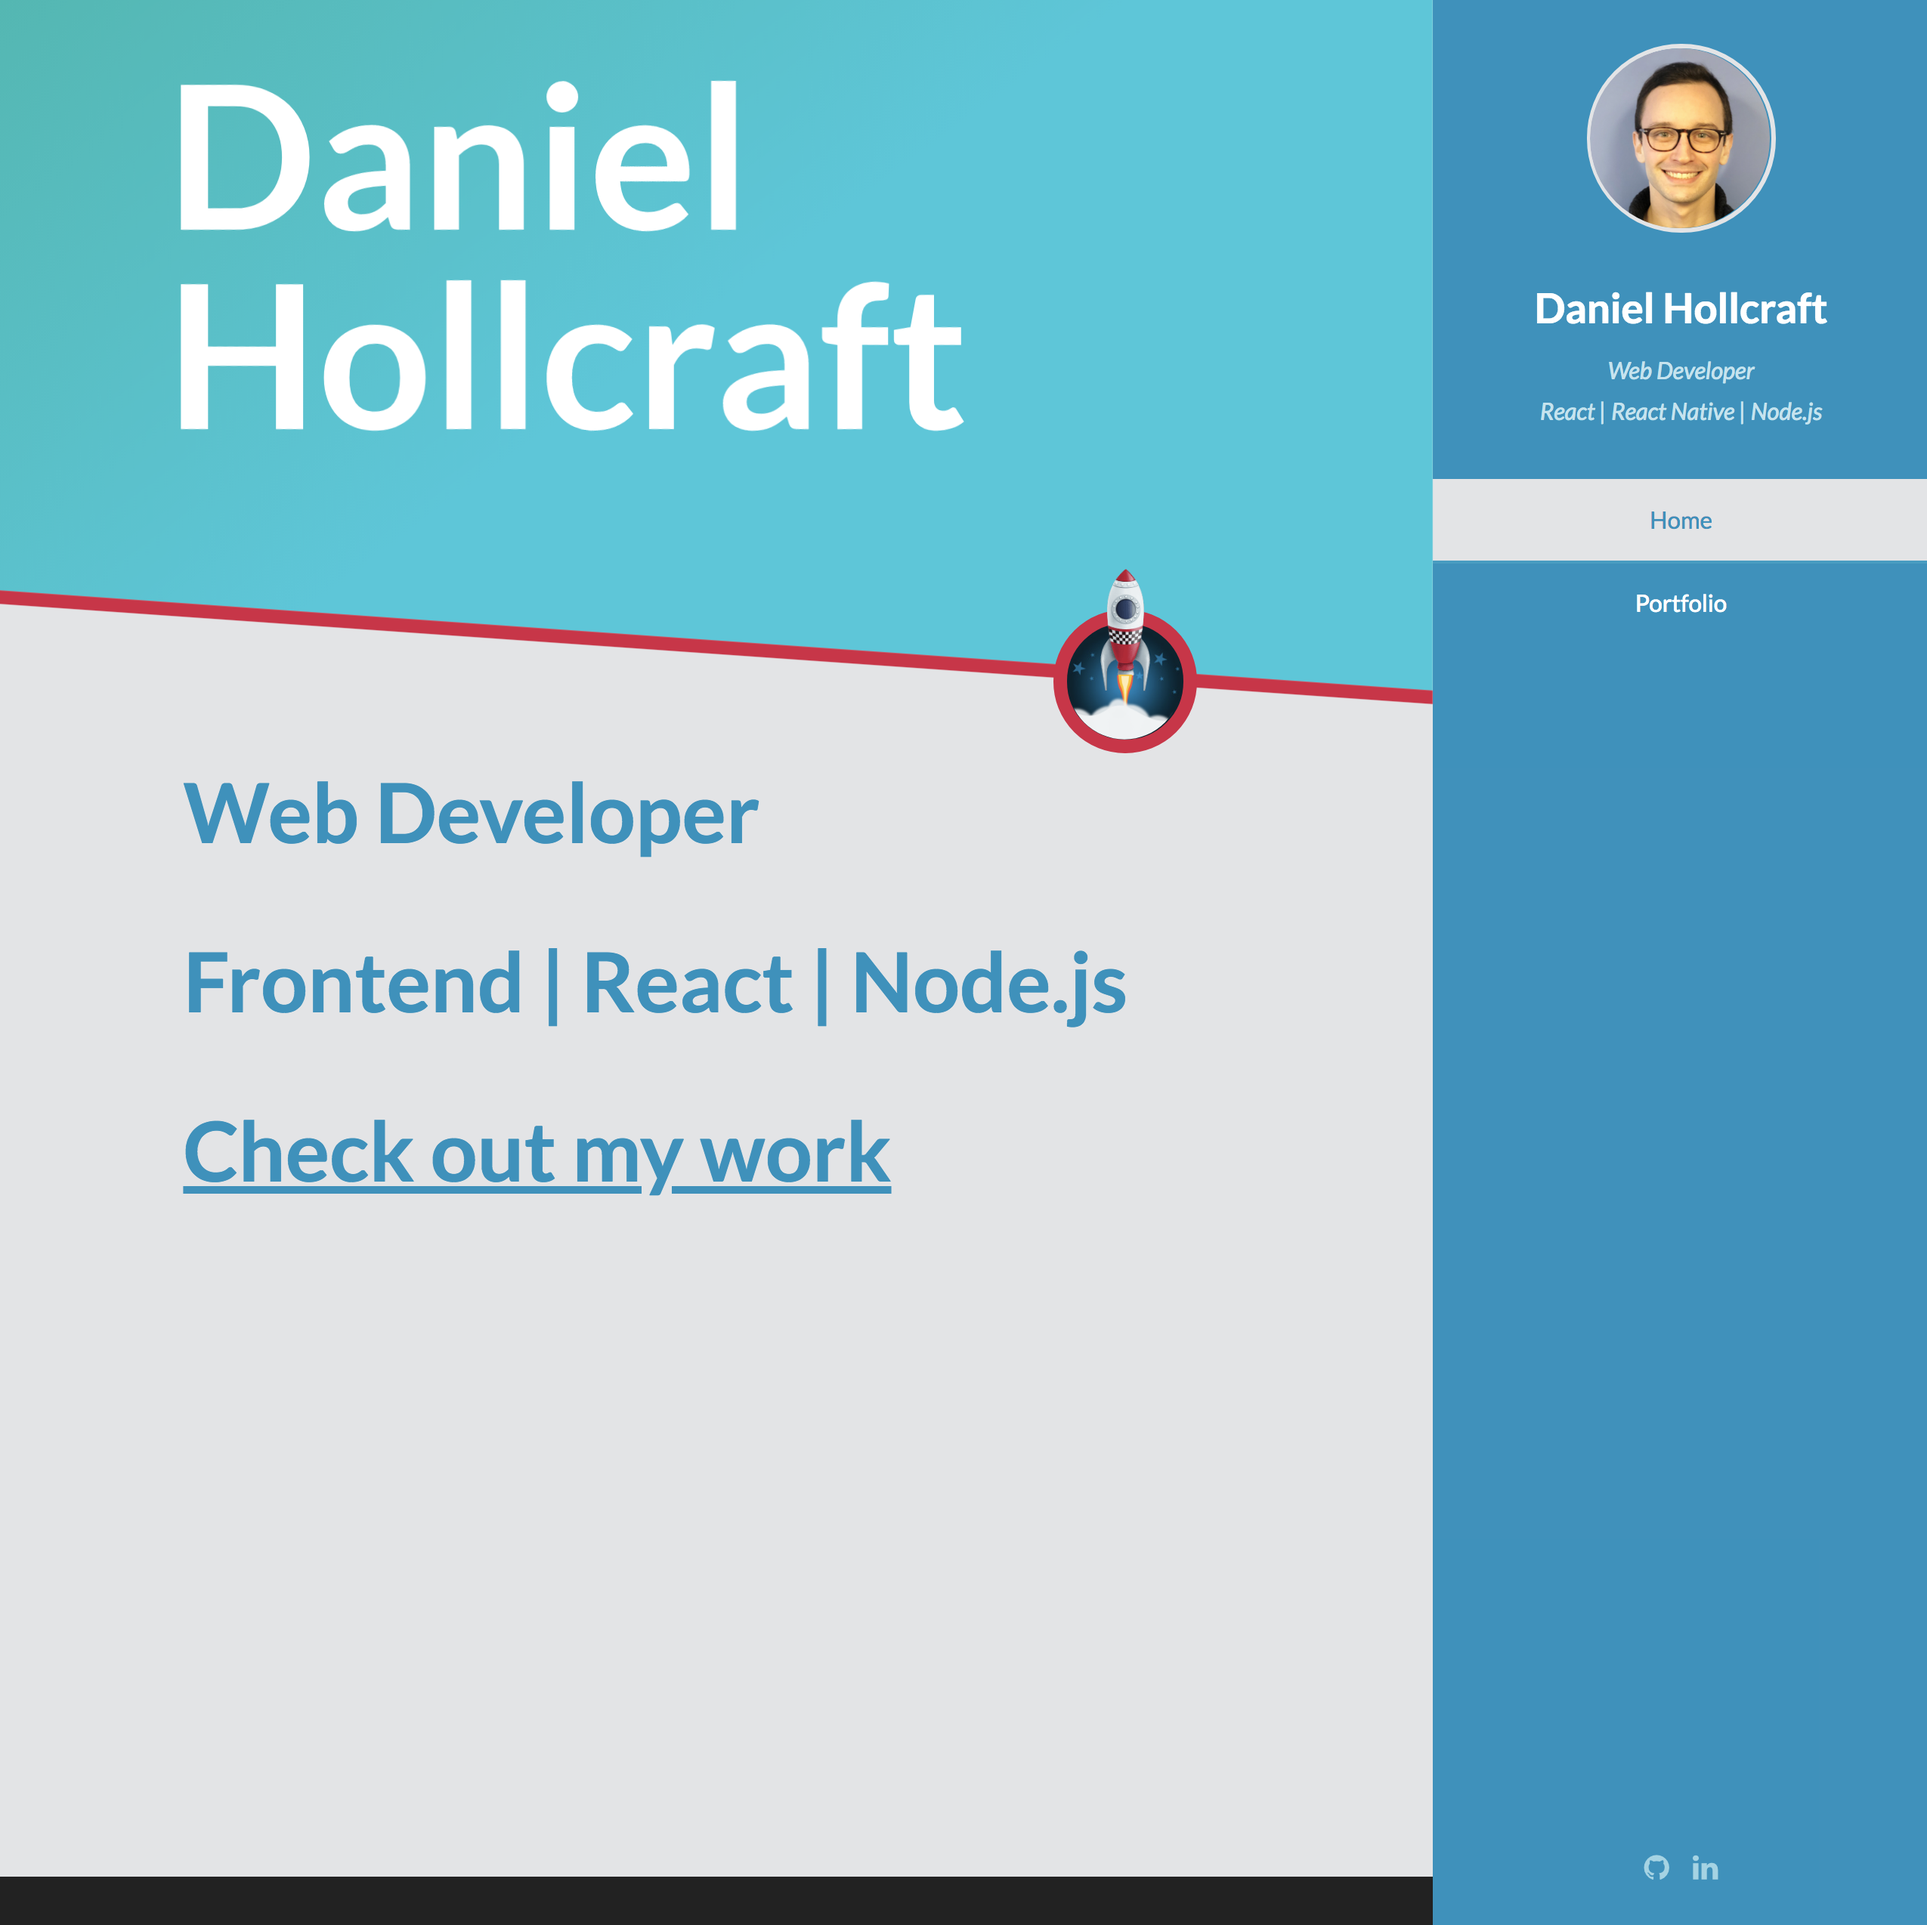
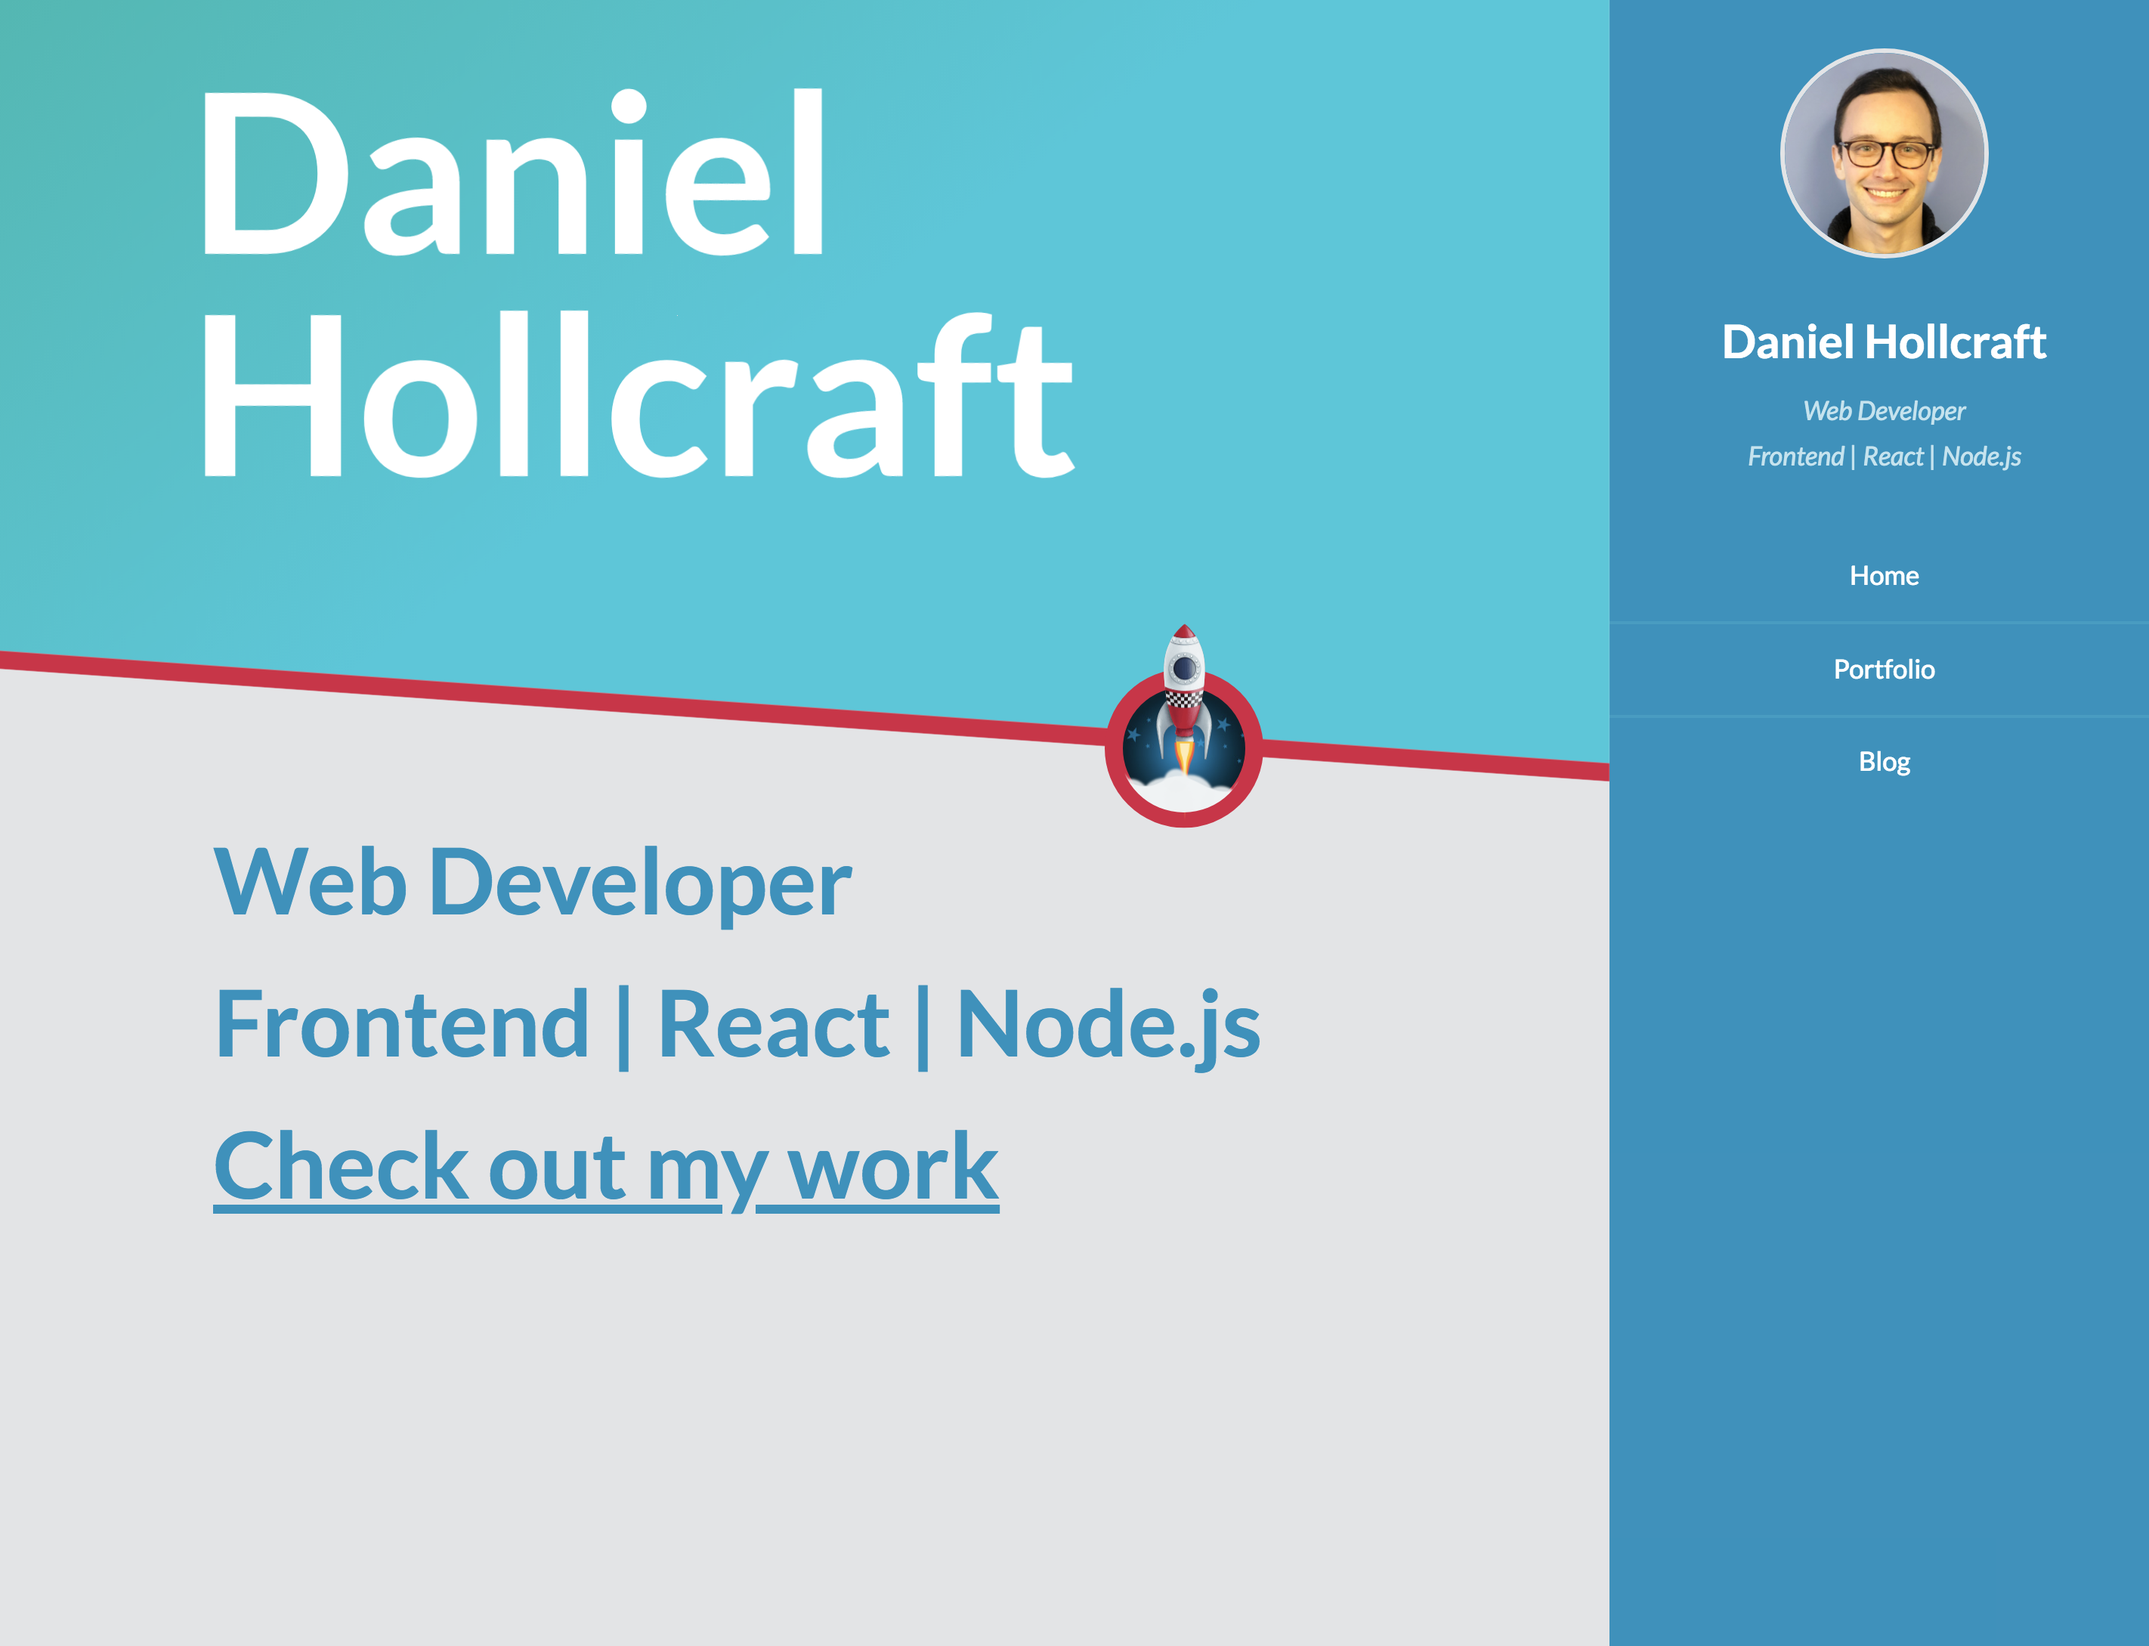
feat: Toggle sidebar in narrow screens to make it appear and disappear.

diff --git a/ui/src/layouts/index.js b/ui/src/layouts/index.js
@@ -1,83 +1,93 @@
-import React from 'react'
+import React, { Component } from 'react'
 import Link from 'gatsby-link'
 import Helmet from 'react-helmet'
-import { ListLink } from '../components'
+import 'prismjs/themes/prism-twilight.css'
+import { ListLink, NavigationBar } from '../components'
 import avatar from '../assets/images/profile-photo.png'
 import './sass/main.scss'
-import 'prismjs/themes/prism-twilight.css'
 
-export default ({ children }) => (
-  <div id="content">
-    <div id="titleBar"><a href="#header" className="toggle"></a><span className="title"><a href="#">Daniel Hollcraft</a></span></div>
-    <section id="header">
-      <header>
-        <span className="image avatar"><img src={avatar} alt="" /></span>
-        <h1 id="logo"><a href="#">Daniel Hollcraft</a></h1>
-        <p>Web Developer<br />
-          Frontend | React | Node.js
+export default class extends Component {
+  constructor() {
+    super()
+    this.state = {
+      // This will only work if the viewport is narrow enough.
+      sideBarOpen: false
+    }
+
+    this.toggleSideBar = this.toggleSideBar.bind(this)
+    this.closeSideBar = this.closeSideBar.bind(this)
+  }
+
+  toggleSideBar() {
+    this.setState({ sideBarOpen: !this.state.sideBarOpen })
+  }
+
+  // Manages side-effect of not being visible by CSS but open.
+  // Unfortunately neccessary.
+  closeSideBar() {
+    this.setState({ sideBarOpen: false })
+  }
+
+  render() {
+    const { data, children } = this.props
+    const { sideBarOpen } = this.state
+    return (
+      <div id="content" className={sideBarOpen && 'header-visible'}>
+        <Helmet
+          title={data.site.siteMetadata.title}
+          meta={[
+            { name: 'description', content: 'Sample' },
+            { name: 'keywords', content: 'sample, something' },
+          ]}
+        />
+        <NavigationBar toggleSideBar={this.toggleSideBar} />
+        <section id="header">
+          <header>
+            <span className="image avatar"><img src={avatar} alt="" /></span>
+            <h1 id="logo"><Link to="/">Daniel Hollcraft</Link></h1>
+            <p>Web Developer<br />
+              Frontend | React | Node.js
         </p>
-      </header>
-      <nav id="nav">
+          </header>
+          <nav id="nav">
 
-        <ul>
-          <ListLink to="/">Home</ListLink>
-          <ListLink to="/portfolio">Portfolio</ListLink>
-          <ListLink to="/blog">Blog</ListLink>
-          {/*<ListLink to="/contact">Contact</ListLink> */}
-        </ul>
-      </nav>
-      <footer>
-        <ul className="icons">
-          <li><a href="https://github.com/danielbh" className="icon fa-github"><span className="label">Github</span></a></li>
-          <li><a href="https://www.linkedin.com/in/daniel-hollcraft/" className="icon fa-linkedin"><span className="label">Linkedin</span></a></li>
-        </ul>
-      </footer>
-    </section>
-    <div id="wrapper">
-      <div id="main">
-        {children()}
-      </div>
-      <section id="footer">
-        <div className="container">
-          <ul className="copyright">
-            <li>&copy; Daniel Hollcraft. All rights reserved.</li><li>Theme: <a href="http://html5up.net">HTML5 UP</a></li>
-          </ul>
+            <ul onClick={this.closeSideBar}>
+              <ListLink to="/">Home</ListLink>
+              <ListLink to="/portfolio">Portfolio</ListLink>
+              <ListLink to="/blog">Blog</ListLink>
+              {/*<ListLink to="/contact">Contact</ListLink> */}
+            </ul>
+          </nav>
+          <footer>
+            <ul className="icons">
+              <li><a href="https://github.com/danielbh" className="icon fa-github"><span className="label">Github</span></a></li>
+              <li><a href="https://www.linkedin.com/in/daniel-hollcraft/" className="icon fa-linkedin"><span className="label">Linkedin</span></a></li>
+            </ul>
+          </footer>
+        </section>
+        <div id="wrapper">
+          <div id="main">
+            {children()}
+          </div>
+          <section id="footer">
+            <div className="container">
+              <ul className="copyright">
+                <li>&copy; Daniel Hollcraft. All rights reserved.</li><li>Theme: <a href="http://html5up.net">HTML5 UP</a></li>
+              </ul>
+            </div>
+          </section>
         </div>
-      </section>
-    </div>
-  </div>
-)
+      </div>
+    )
+  }
+}
 
-
-// export default ({ data,  children }) => (
-//   <div style={{ margin: '0 auto', maxWidth: 650, padding: '1.25rem 1rem' }}>
-//     <Helmet
-//       title={data.site.siteMetadata.title}
-//       meta={[
-//         { name: 'description', content: 'Sample' },
-//         { name: 'keywords', content: 'sample, something' },
-//       ]}
-//     />
-//     <header style={{ marginBottom: '1.5rem' }}>
-//       <Link to="/" style={{ textShadow: 'none', backgroundImage: 'none' }}>
-//         <h3 style={{ display: 'inline' }}>{data.site.siteMetadata.title}</h3>
-//       </Link>
-//       <ul style={{ listStyle: 'none', float: 'right' }}>
-//         <ListLink to="/">Home</ListLink>
-//         <ListLink to="/about/">About</ListLink>
-//         <ListLink to="/contact/">Contact</ListLink>
-//       </ul>
-//     </header>
-//     {children()}
-//   </div>
-// )
-
-// export const query = graphql`
-//   query AboutQuery {
-//     site {
-//       siteMetadata {
-//         title
-//       }
-//     }
-//   }
-// `
+export const query = graphql`
+  query HomeQuery {
+    site {
+      siteMetadata {
+        title
+      }
+    }
+  }
+`

diff --git a/ui/src/layouts/sass/main.scss b/ui/src/layouts/sass/main.scss
@@ -219,8 +219,15 @@
 		}
 	}
 
+/* Title Bar */
+#titleBar {
+  display: none;
+  cursor: pointer;
+}
+
 /* Code Highlight */
 .gatsby-highlight pre {
+  background-color: #222;
   font-size: 0.85em;
   .number, .tag, .boolean {
     color: _palette(accent3, bg)
@@ -841,8 +848,7 @@
 		}
 	}
 
-/* Features */
-
+  /* Features */
 	.features {
 		article {
 			border-top: solid (_size(border-width) * 1.5) _palette(border);
@@ -1140,12 +1146,8 @@
 
 	}
 
+
 /* Medium */
-
-	#titleBar {
-		display: none;
-	}
-
 	@include breakpoint(medium) {
 
 		/* Basic */
@@ -1295,7 +1297,7 @@
 				}
 			}
 
-			body {
+			#content {
 				&.header-visible {
 					#wrapper, #titleBar {
 						@if _misc(header-side) == 'right' {
@@ -1479,8 +1481,8 @@
 				}
 			}
 
-			body {
-				&.header-visible {
+		#content {
+      &.header-visible {
 					#wrapper, #titleBar {
 						@if _misc(header-side) == 'right' {
 							@include vendor('transform', 'translateX(#{$size-header * -1})');
@@ -1491,8 +1493,7 @@
 					}
 				}
 			}
-
-	}
+   }
 
 /* XSmall */
 

diff --git a/ui/src/pages/portfolio/index.js b/ui/src/pages/portfolio/index.js
@@ -16,13 +16,14 @@ export default ({ data }) => {
               appStore,
               googlePlay,
               web,
-              source
+              source,
+              title
             } = frontmatter
             return (
               <article key={node.id}>
                 <img className="image" src={`${previewImage.childImageSharp.responsiveSizes.src}`} alt="" />
-                <div className="inner">
-                  <h4 className="project-title">{node.frontmatter.title}</h4>
+                <div key={node.id} className="inner">
+                  <h4 className="project-title">{title}</h4>
                   <p>{node.excerpt}</p>
                   <ul className="actions">
                     {appStore && <li><a href={appStore} className="button">App Store</a></li>}

diff --git a/ui/src/pages/blog/index.js b/ui/src/pages/blog/index.js
@@ -10,8 +10,8 @@ export default ({ data }) => {
           <h2>Blog</h2>
         </header>
         {data.allMarkdownRemark.edges.map(({ node }) => (
-          <section className="blog-preview">
-            <article key={node.id}>
+          <section key={node.id} className="blog-preview">
+            <article >
               <Link to={node.frontmatter.path}><h3>{node.frontmatter.title}</h3></Link>
               <h4>{node.frontmatter.date}</h4>
               <p>{node.excerpt}</p>

diff --git a/ui/src/components/NavigationBar/index.js b/ui/src/components/NavigationBar/index.js
@@ -1,0 +1,16 @@
+import React from 'react'
+import Link from 'gatsby-link'
+
+const NavigationBar = ({ toggleSideBar }) => (
+  <div id="titleBar">
+    <span
+      onClick={toggleSideBar}
+      className="toggle"
+    ></span>
+    <span className="title">
+      <Link to="/">Daniel Hollcraft</Link>
+    </span>
+  </div>
+)
+
+export default NavigationBar

diff --git a/ui/src/components/index.js b/ui/src/components/index.js
@@ -1,2 +1,3 @@
 export { default as ListLink } from './ListLink'
+export { default as NavigationBar } from './NavigationBar'
 export { default as Rocket } from './Rocket'
